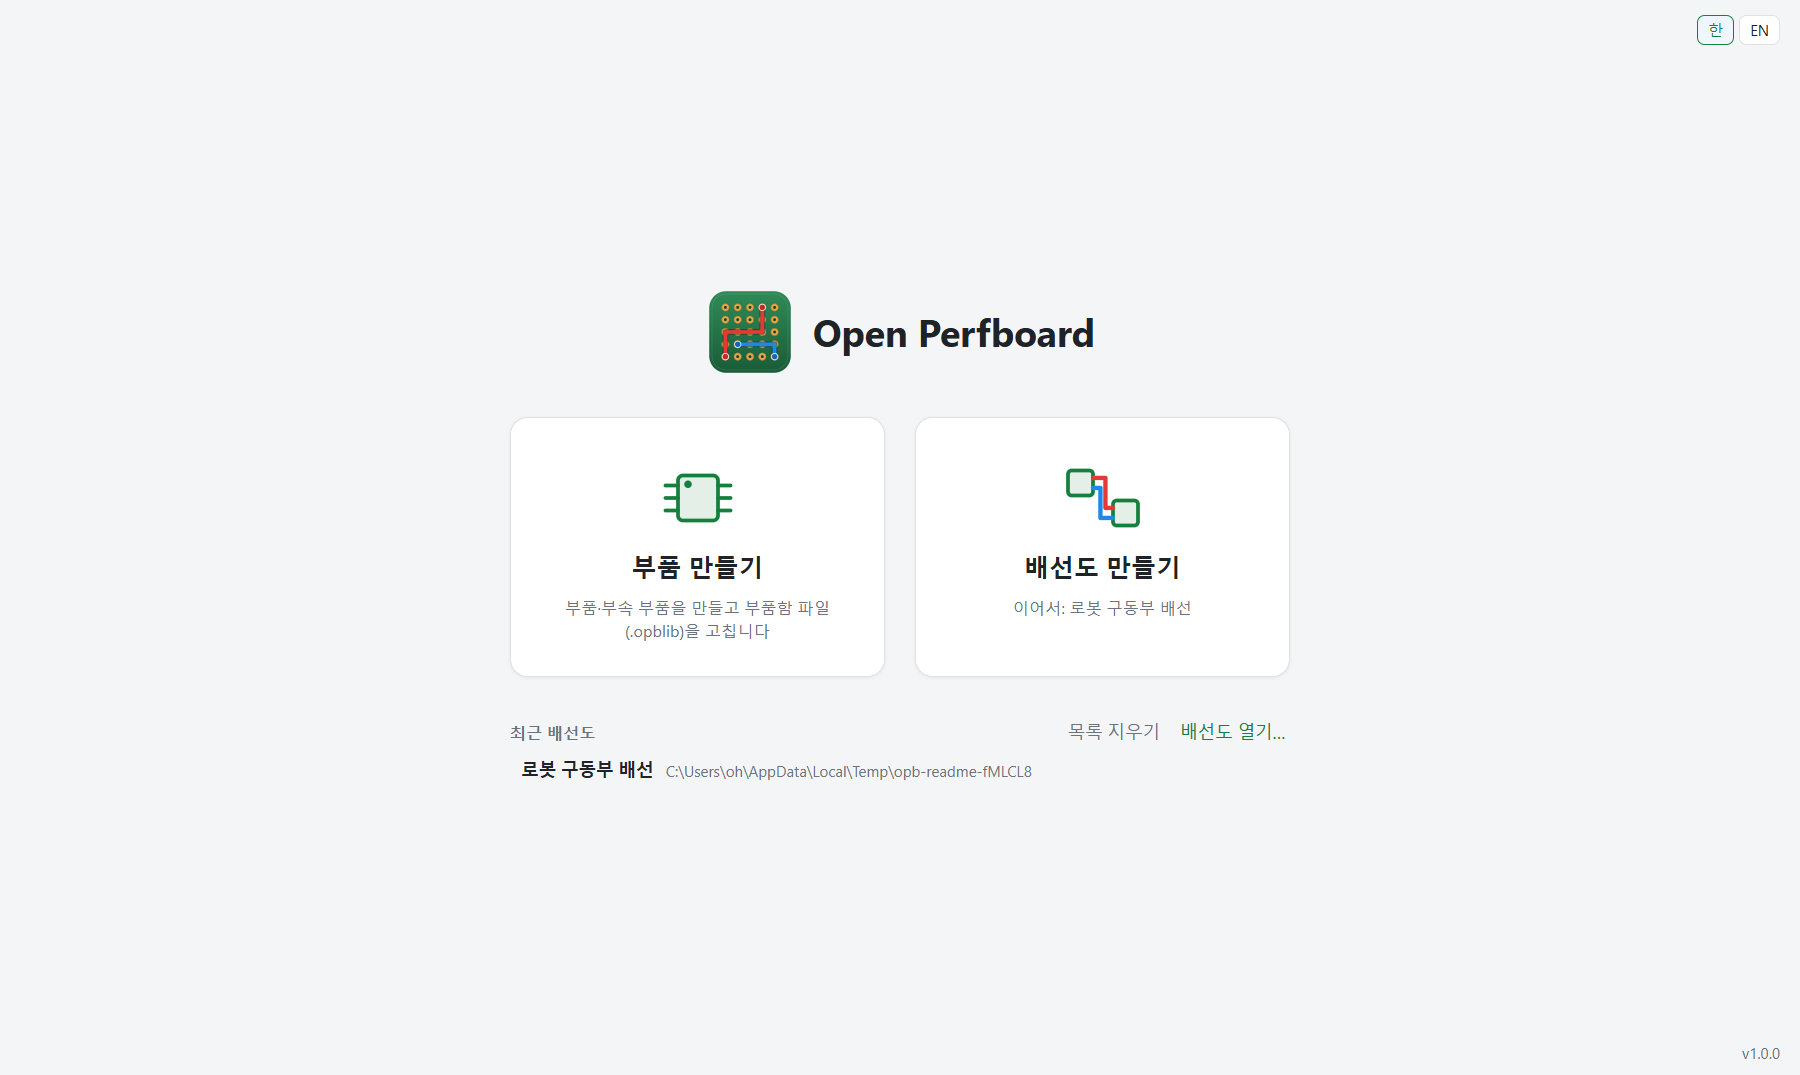
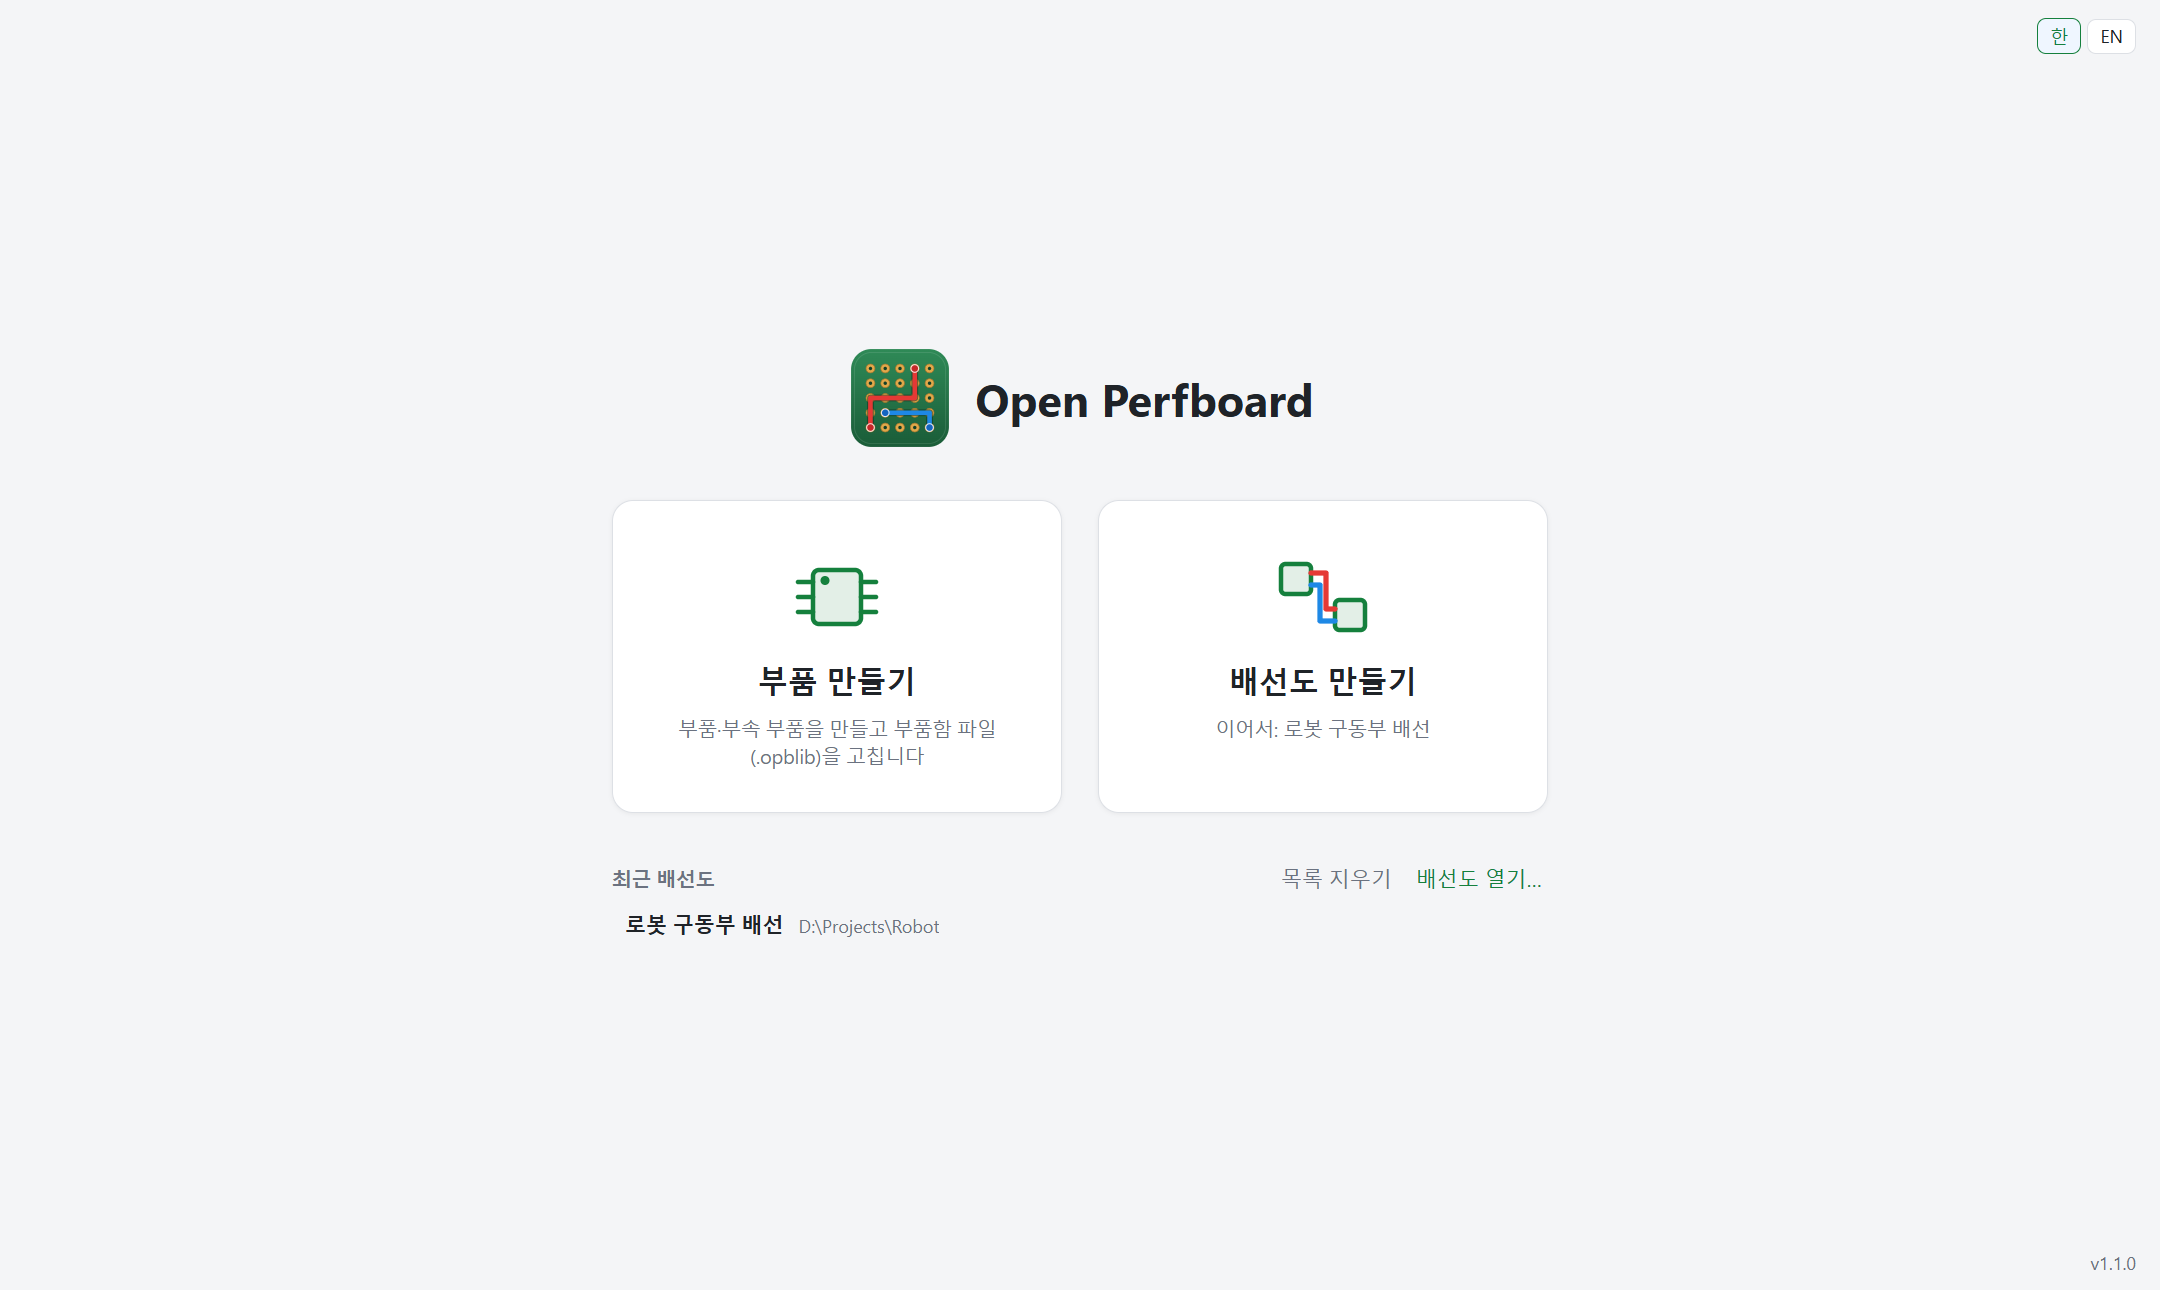
Release 1.1.0
Bump the version and refresh the README screenshots and GIFs.

diff --git a/README.md b/README.md
@@ -12,7 +12,7 @@
 <div align="center">
 
 [![License: GPL-3.0-or-later](https://img.shields.io/badge/license-GPL--3.0--or--later-blue)](LICENSE)
-[![Version](https://img.shields.io/badge/version-1.0.0-15803d)](../../releases/latest)
+[![Version](https://img.shields.io/badge/version-1.1.0-15803d)](../../releases/latest)
 [![Platform](https://img.shields.io/badge/platform-Windows%2010%20%7C%2011%20%7C%20Linux-0078D6)](#install)
 ![Offline](https://img.shields.io/badge/offline-no%20account%20needed-555)
 

diff --git a/README.ko.md b/README.ko.md
@@ -12,7 +12,7 @@
 <div align="center">
 
 [![License: GPL-3.0-or-later](https://img.shields.io/badge/license-GPL--3.0--or--later-blue)](LICENSE)
-[![Version](https://img.shields.io/badge/version-1.0.0-15803d)](../../releases/latest)
+[![Version](https://img.shields.io/badge/version-1.1.0-15803d)](../../releases/latest)
 [![Platform](https://img.shields.io/badge/platform-Windows%2010%20%7C%2011%20%7C%20Linux-0078D6)](#설치)
 ![Offline](https://img.shields.io/badge/offline-no%20account%20needed-555)
 
